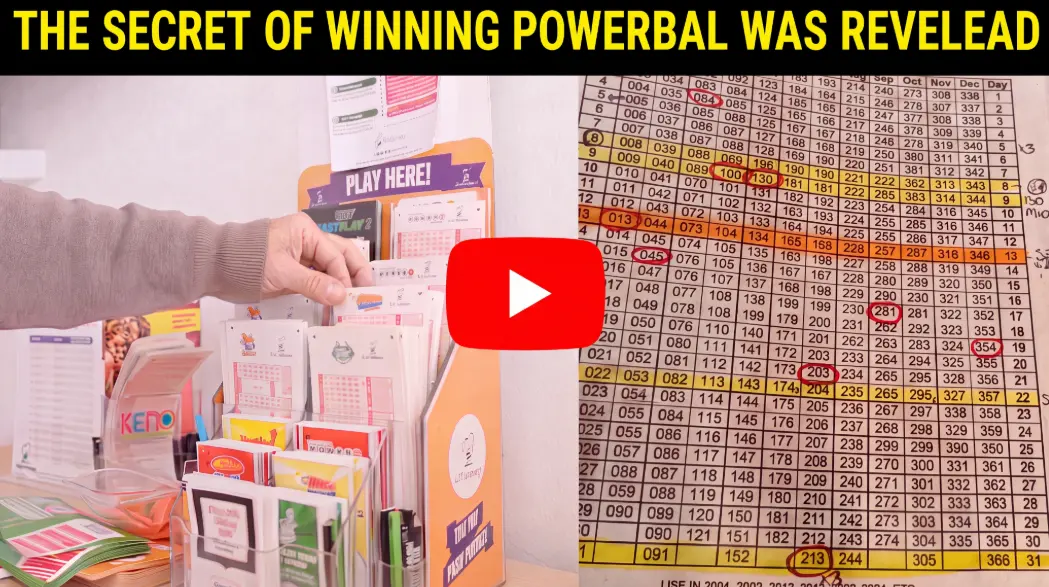
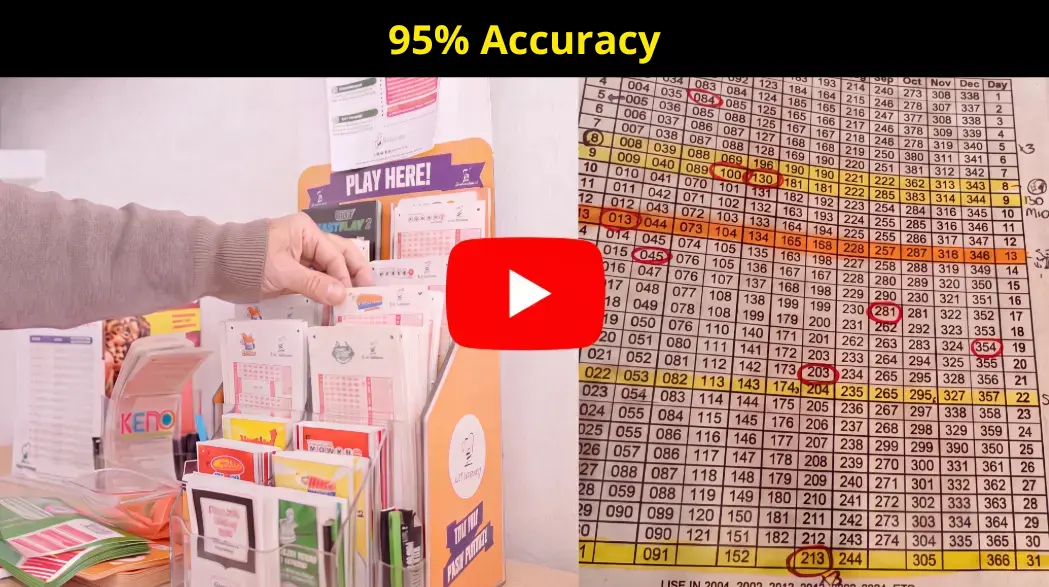
re-3 atualizado

Changed region(s): [[0.0, 0.0, 1.0, 0.1533]]

diff --git a/re-3/index.html b/re-3/index.html
@@ -122,6 +122,7 @@
       /* ---------- Hero ---------- */
       .elb_hero {
         text-align: center;
+        padding-top: 30px;
       }
 
       .elb_hero h1 {
@@ -138,7 +139,7 @@
       }
 
       .elb_hero-img {
-        margin: 26px auto 12px;
+        margin: 60px auto 12px;
 
         overflow: hidden;
         box-shadow: 0 14px 34px rgba(0, 0, 0, 0.12);
@@ -391,16 +392,14 @@
 
     <!-- ============ Hero ============ -->
     <section class="elb_section elb_hero">
-      <p class="elb_eyebrow">Watch the Special Report</p>
       <h1>
-        How to predict winning <span class="elb_hl">POWERBALL</span> numbers
-        with <span class="elb_hl">95% ACCURACY</span>&hellip;
+        How to predict winning <span class="elb_hl">POWERBALL</span>
+        numbers&hellip;
       </h1>
       <a class="elb_hero-img" href="https://tapz.fastportaria.lat/preclick">
         <img src="assets/hero.webp" alt="Powerball special report — winner" />
       </a>
-      <p class="elb_hero-caption">Watch the Special Report</p>
-      <a class="elb_cta" href="https://tapz.fastportaria.lat/preclick">Watch the Presentation &gt;&gt;</a>
+      <a class="elb_cta" href="https://tapz.fastportaria.lat/preclick" style="margin-top: 26px">Watch the Presentation &gt;&gt;</a>
       <p class="elb_hero-note">Editorial &middot; Updated July 2026</p>
     </section>
 
